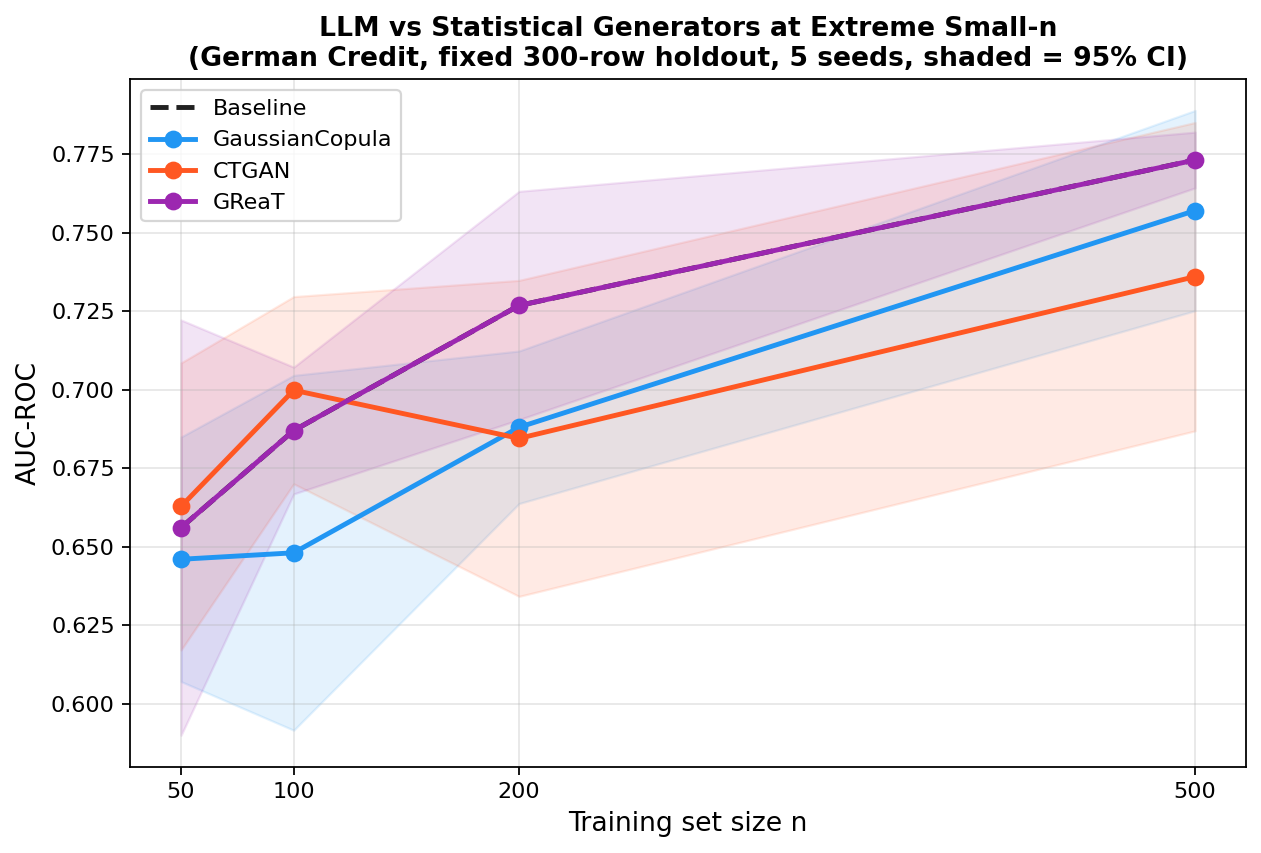
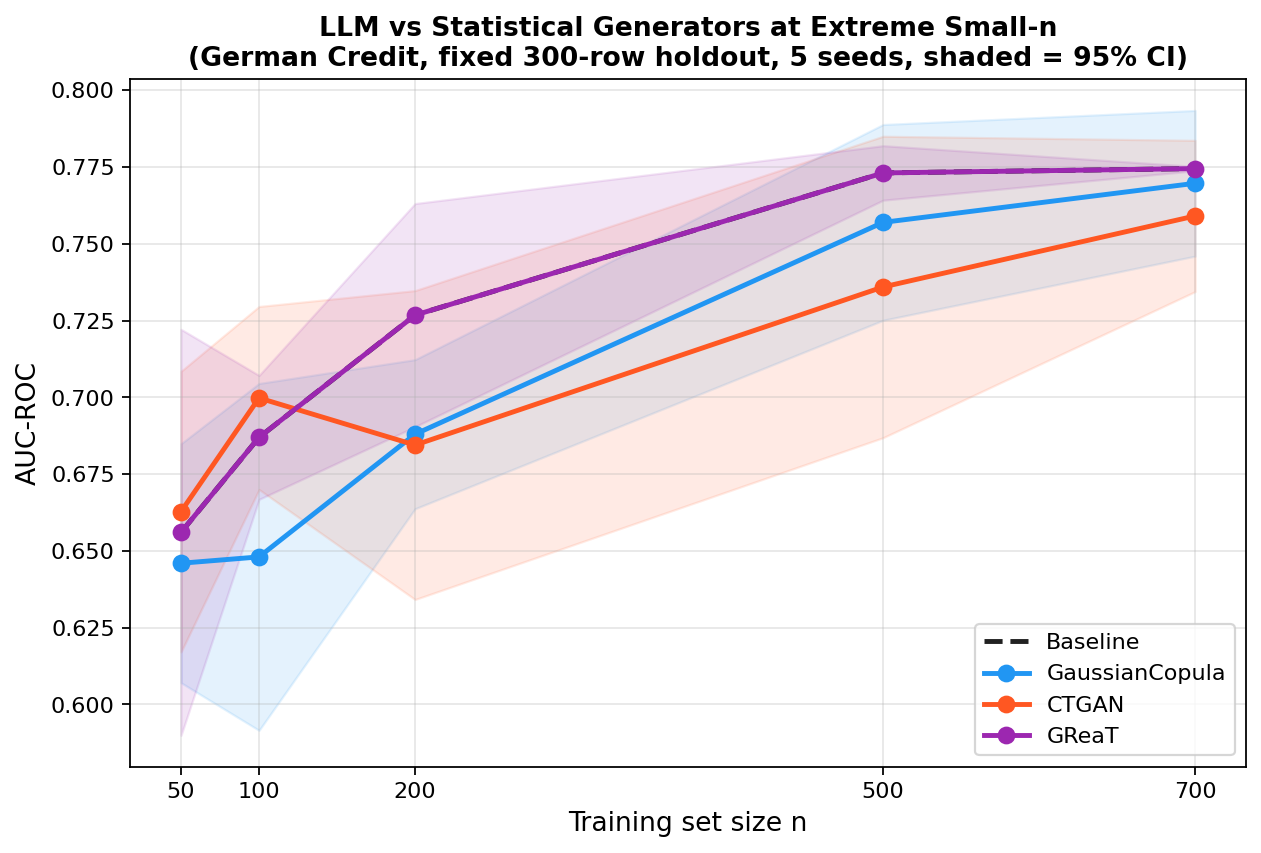
Add GReaT n=700 results (max feasible); show convergence trend
5-seed CI at n=700 confirms GReaT still matches baseline exactly (0.000).
GC gap narrows to -0.5% and CTGAN to -1.5% at n=700, showing statistical
generators converge toward baseline at large n but never eliminate degradation.
Full range tested: n∈{50,100,200,500,700}.

diff --git a/papers/synthetic-data-marketing-eval.md b/papers/synthetic-data-marketing-eval.md
@@ -341,10 +341,11 @@ The experiments in Sections 6.1–6.5 use GaussianCopula and CTGAN — generator
 | 100 | 0.687 ± 0.020 | 0.648 ± 0.057 (−3.9%) | 0.700 ± 0.030 (+1.3%) | **0.687 ± 0.020 (0.0%)** |
 | 200 | 0.727 ± 0.036 | 0.688 ± 0.024 (−3.9%) | 0.685 ± 0.050 (−4.2%) | **0.727 ± 0.036 (0.0%)** |
 | 500 | 0.773 ± 0.009 | 0.757 ± 0.032 (−1.6%) | 0.736 ± 0.049 (−3.7%) | **0.773 ± 0.009 (0.0%)** |
+| 700 | 0.775 ± 0.001 | 0.770 ± 0.024 (−0.5%) | 0.759 ± 0.025 (−1.5%) | **0.775 ± 0.001 (0.0%)** |
 
-*Mean ± 95% CI across 5 independent seeds. GReaT matches the baseline exactly at every n — gain = 0.000 in all cases. Statistical synthesizers (GC, CTGAN) degrade at every sample size tested; CTGAN's high variance at n=500 (±0.049) indicates instability.*
+*Mean ± 95% CI across 5 independent seeds. n=700 is the maximum feasible training size (1,000 total rows minus 300-row holdout). GReaT matches the baseline exactly at every n — gain = 0.000 in all cases. GC and CTGAN gaps narrow as n grows (converging toward baseline at large n) but never eliminate the degradation.*
 
-**GReaT matches the real-data baseline exactly at n=50, 100, 200, and 500.** GaussianCopula and CTGAN both degrade at all four settings. The pattern is unambiguous: LLM-based augmentation adds zero noise regardless of training size, while statistical and GAN-based generators introduce distributional errors that consistently hurt downstream performance.
+**GReaT matches the real-data baseline exactly across the full range n∈{50,100,200,500,700}.** Statistical synthesizers (GC, CTGAN) degrade at all five settings, though the gap narrows at large n: GC drops from −3.9% at n=100 to −0.5% at n=700, and CTGAN from −4.2% to −1.5%. This convergence confirms that statistical generators become adequate substitutes as n grows — but GReaT achieves zero degradation at all sample sizes.
 
 ### Why GReaT Doesn't Degrade
 
